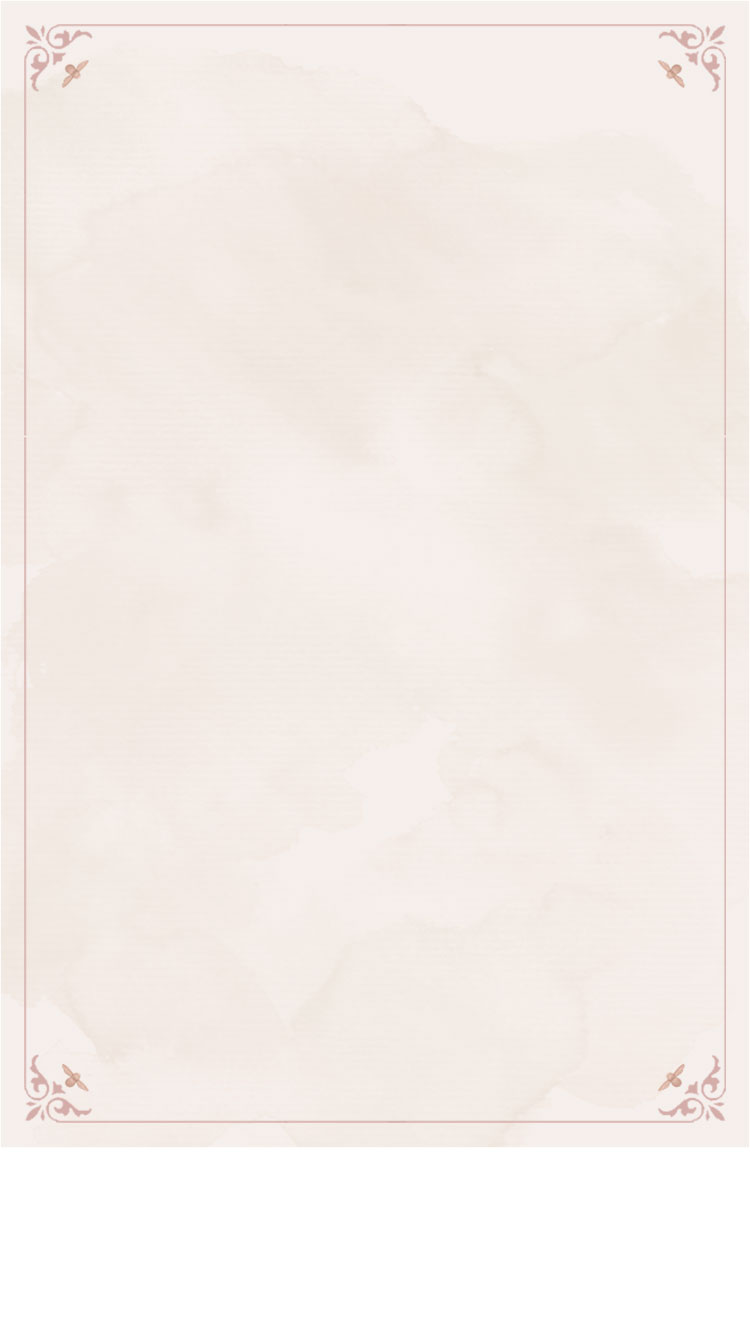
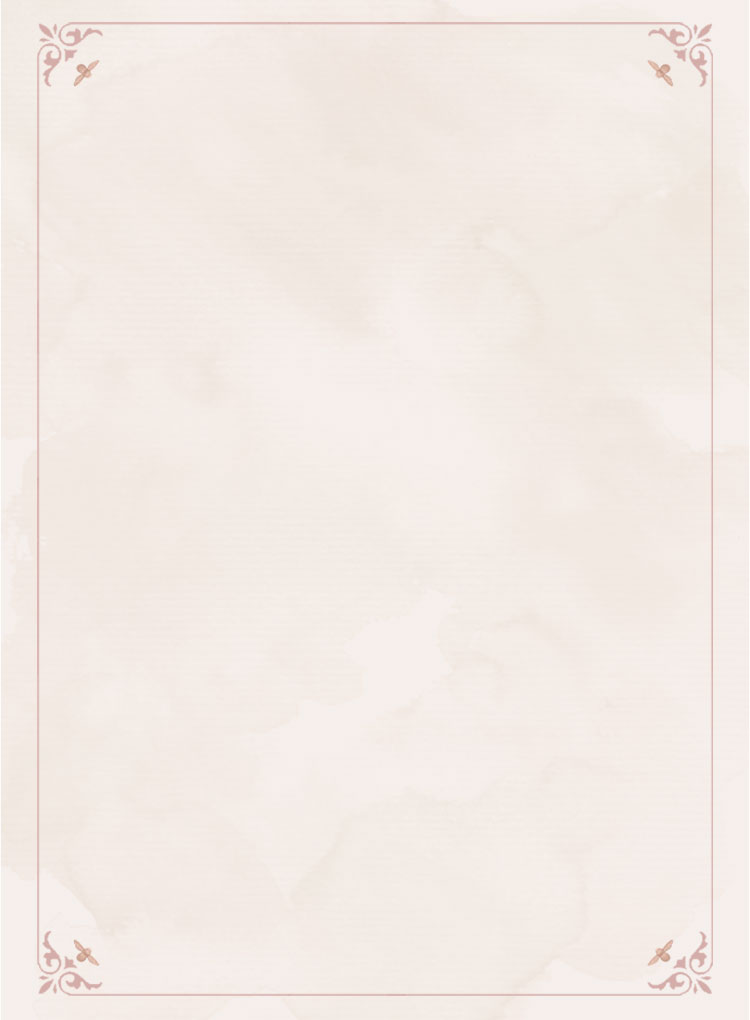
1

Changed region(s): [[0.0307, 0.0, 0.9813, 1.0], [0.8893, 0.7902, 0.9813, 0.8814]]

diff --git a/src/components/loading.vue b/src/components/loading.vue
@@ -197,7 +197,7 @@ export default {
 </script>
 <style lang="less" scoped>
 .choose {
-  height: calc(100vw * 1.77);
+  height: calc(100vw * 1.608);
   width: 100%;
   position: absolute;
   background-size: 100% !important;
@@ -215,7 +215,7 @@ export default {
   }
 }
 .loadpage-container {
-  height: calc(100vw * 1.77);
+  height: calc(100vw * 1.608);
   width: 100%;
 }
 .bg {

diff --git a/src/views/index.vue b/src/views/index.vue
@@ -129,7 +129,7 @@ export default {
 <style lang="less" scoped>
 .draw {
   width: 100%;
-  height: calc(100vw * 1.77);
+  height: calc(100vw * 1.36);
   background-size: cover !important;
   position: relative;
   background-position: top !important;

diff --git a/src/components/ending.vue b/src/components/ending.vue
@@ -75,7 +75,7 @@ export default {
 .text-container {
   position: absolute;
   width: 100%;
-  top: calc((100vh - (100vw * 1.77)) / 2 + 100vw);
+  top: calc((100vh - (100vw * 1.608)) / 2 + 100vw);
   > img {
   }
 }

diff --git a/src/components/search.vue b/src/components/search.vue
@@ -216,7 +216,7 @@ export default {
   bottom: 0;
   left: 0;
   width: 100vw;
-  height: calc(100vh - 113.96731vw);
+  height: 70vw;
   z-index: 20000;
   &.drawdown-state {
     height: 10vw;

diff --git a/src/App.vue b/src/App.vue
@@ -35,6 +35,6 @@ body > img {
   left: 0;
   width: 100vw;
   top: 0;
-  margin-top: calc((100vh - (100vw * 1.77)) / 2);
+  margin-top: calc((100vh - (100vw * 1.608)) / 2);
 }
 </style>
